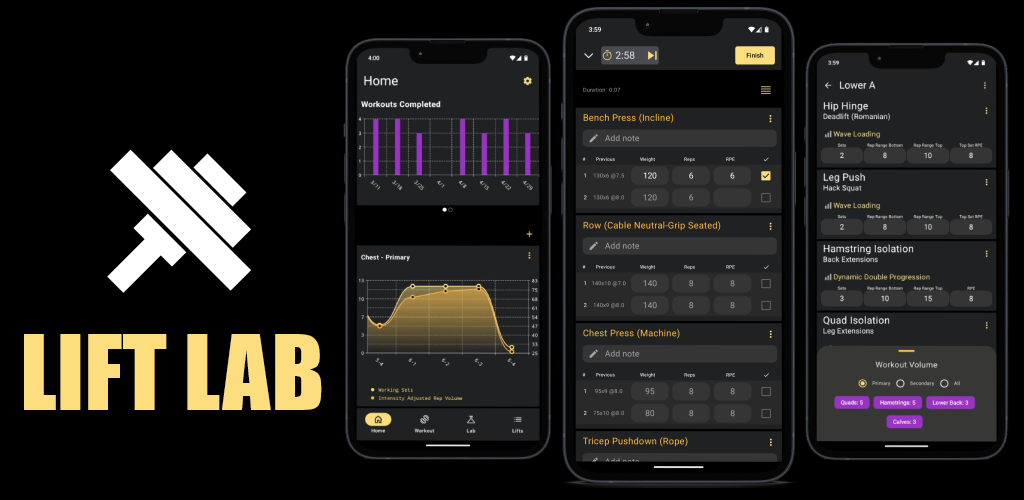
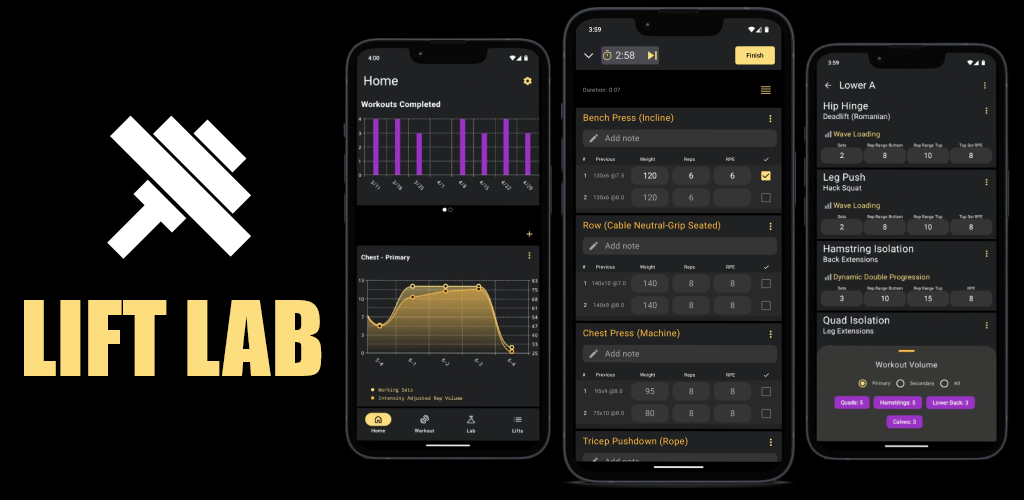
bug fixes for charts

Changed region(s): [[0.0, 0.24, 0.3125, 0.84]]

diff --git a/app/src/main/java/com/browntowndev/liftlab/ui/models/ChartModel.kt b/app/src/main/java/com/browntowndev/liftlab/ui/models/ChartModel.kt
@@ -155,29 +155,18 @@ fun getPerWorkoutVolumeChartModel(
         composedChartEntryModel = chartEntryModel,
         startAxisValueOverrider = object: AxisValueOverrider {
             override fun getMinY(minY: Float, maxY: Float, extraStore: ExtraStore): Float {
-                val minVal = minY - 1
-                return if (minVal < 0) {
-                    0f
-                } else {
-                    minVal
-                }
+                return getComposedChartMinY(minY)
             }
             override fun getMaxY(minY: Float, maxY: Float, extraStore: ExtraStore): Float {
-                val maxVal = maxY + 1
-                return if (maxVal - minY < 4) {
-                    val difference = maxVal - minY
-                    maxVal + (4 - difference)
-                } else {
-                    maxVal
-                }
+                return getComposedChartMaxY(maxY, minY)
             }
         },
         endAxisValueOverrider = object: AxisValueOverrider {
             override fun getMinY(minY: Float, maxY: Float, extraStore: ExtraStore): Float {
-                return minY - 1
+                return getComposedChartMinY(minY)
             }
             override fun getMaxY(minY: Float, maxY: Float, extraStore: ExtraStore): Float {
-                return maxY + 1
+                return getComposedChartMaxY(maxY, minY)
             }
         },
         bottomAxisValueFormatter = { value, _, _ ->
@@ -249,18 +238,18 @@ fun getPerMicrocycleVolumeChartModel(
         composedChartEntryModel = chartEntryModel,
         startAxisValueOverrider = object: AxisValueOverrider {
             override fun getMinY(minY: Float, maxY: Float, extraStore: ExtraStore): Float {
-                return minY - 1
+                return getComposedChartMinY(minY)
             }
             override fun getMaxY(minY: Float, maxY: Float, extraStore: ExtraStore): Float {
-                return maxY + 1
+                return getComposedChartMaxY(maxY, minY)
             }
         },
         endAxisValueOverrider = object: AxisValueOverrider {
             override fun getMinY(minY: Float, maxY: Float, extraStore: ExtraStore): Float {
-                return minY - 1
+                return getComposedChartMinY(minY)
             }
             override fun getMaxY(minY: Float, maxY: Float, extraStore: ExtraStore): Float {
-                return maxY + 1
+                return getComposedChartMaxY(maxY, minY)
             }
         },
         bottomAxisLabelRotationDegrees = 45f,
@@ -440,4 +429,18 @@ fun getMicroCycleCompletionChart(
         },
         startAxisItemPlacer = AxisItemPlacer.Vertical.count({ 9 }),
     )
+}
+
+private fun getComposedChartMinY(minY: Float): Float {
+    return if (minY > 0) minY - 1 else minY
+}
+
+private fun getComposedChartMaxY(maxY: Float, minY: Float): Float {
+    val maxVal = maxY + 1
+    return if (maxVal - minY < 4) {
+        val difference = maxVal - minY
+        maxVal + (4 - difference)
+    } else {
+        maxVal
+    }
 }

diff --git a/app/src/main/java/com/browntowndev/liftlab/ui/composables/Marker.kt b/app/src/main/java/com/browntowndev/liftlab/ui/composables/Marker.kt
@@ -91,10 +91,10 @@ internal fun rememberMarker(labelColor: Color = MaterialTheme.colorScheme.primar
                     ): CharSequence = targets.transformToSpannable(
                         separator = "  ",
                     ) { cartesianTarget ->
-                        val y = when(val firstLayerModel = context.chartValues.model.models[0]) {
-                            is LineCartesianLayerModel -> firstLayerModel.series[0][0].y
-                            is ColumnCartesianLayerModel -> firstLayerModel.series[0][0].y
-                            else -> cartesianTarget.x
+                        val y = when(cartesianTarget) {
+                            is LineCartesianLayerMarkerTarget -> cartesianTarget.points.firstOrNull()?.entry?.y ?: 0f
+                            is ColumnCartesianLayerMarkerTarget -> cartesianTarget.columns.firstOrNull()?.entry?.y ?: 0f
+                            else -> 0f
                         }
 
                         val color = when(context.chartValues.model.models[0]) {
